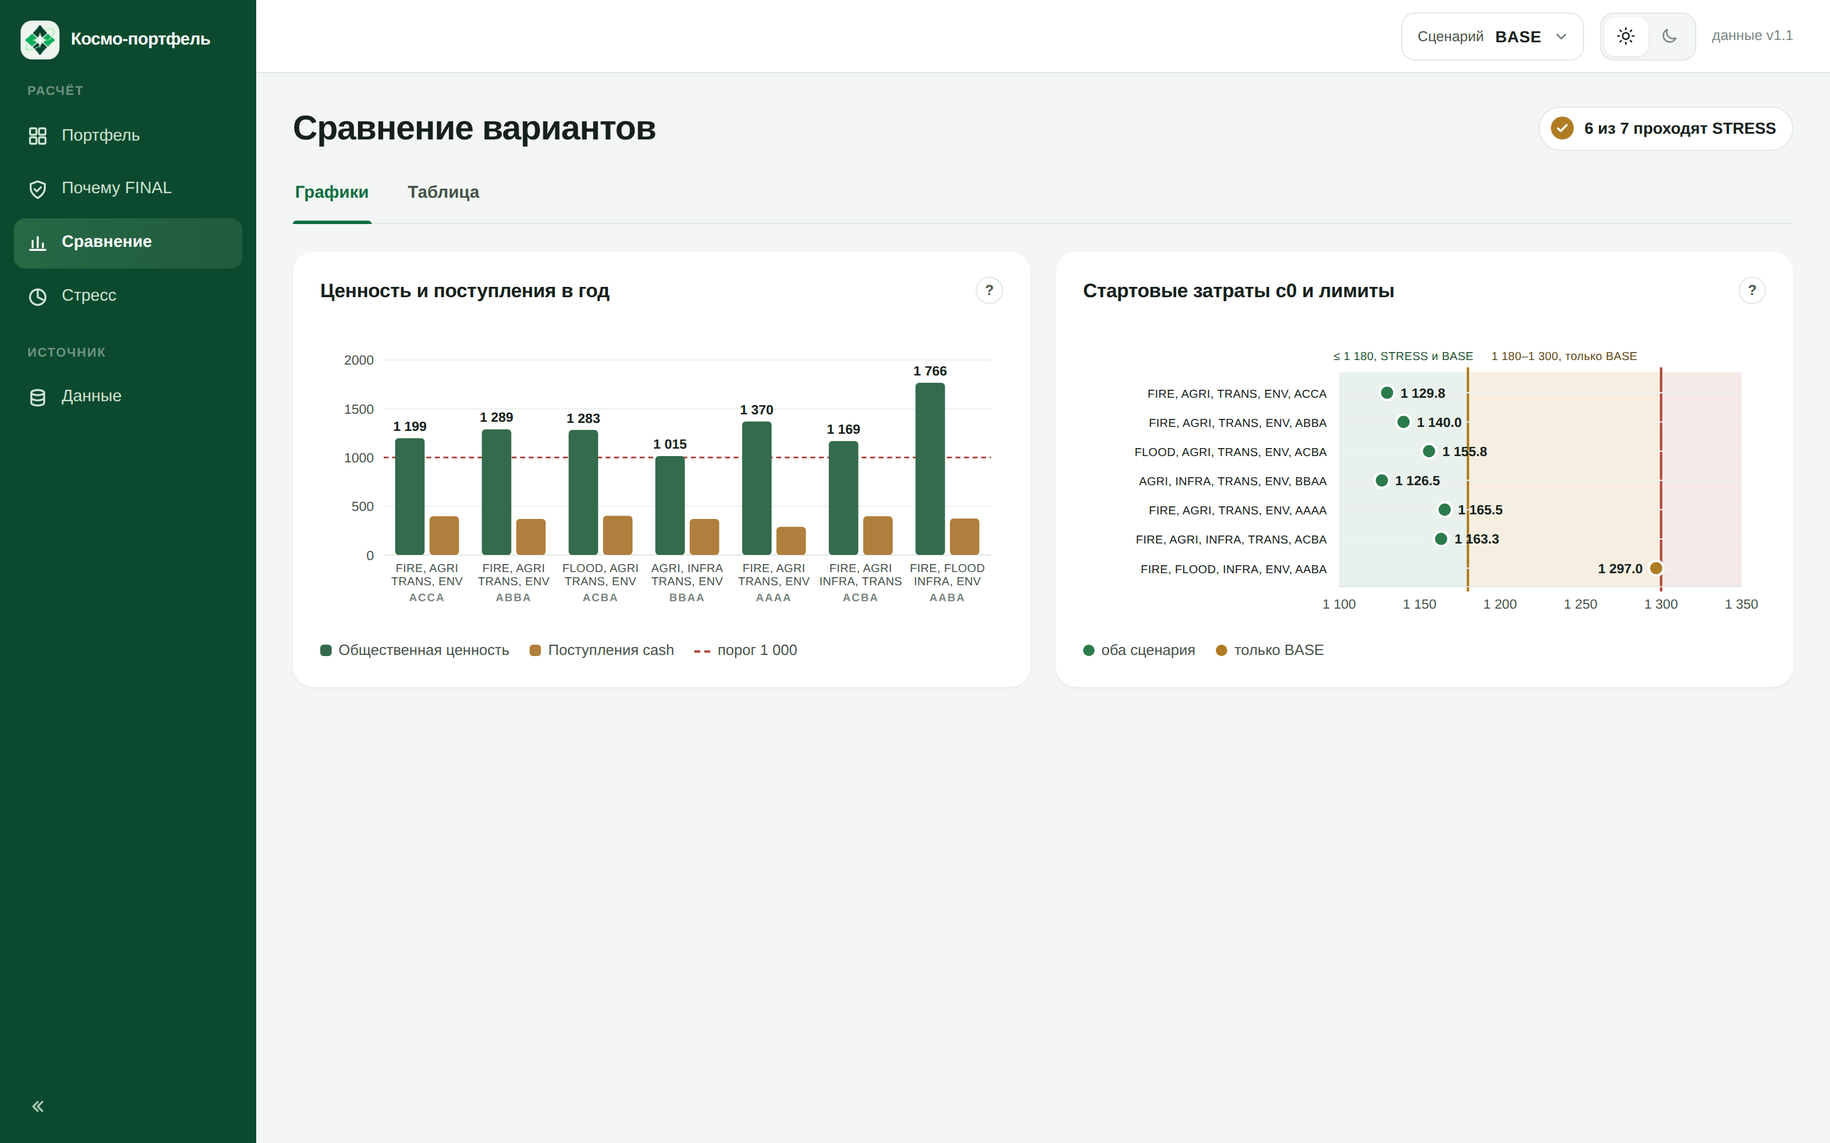
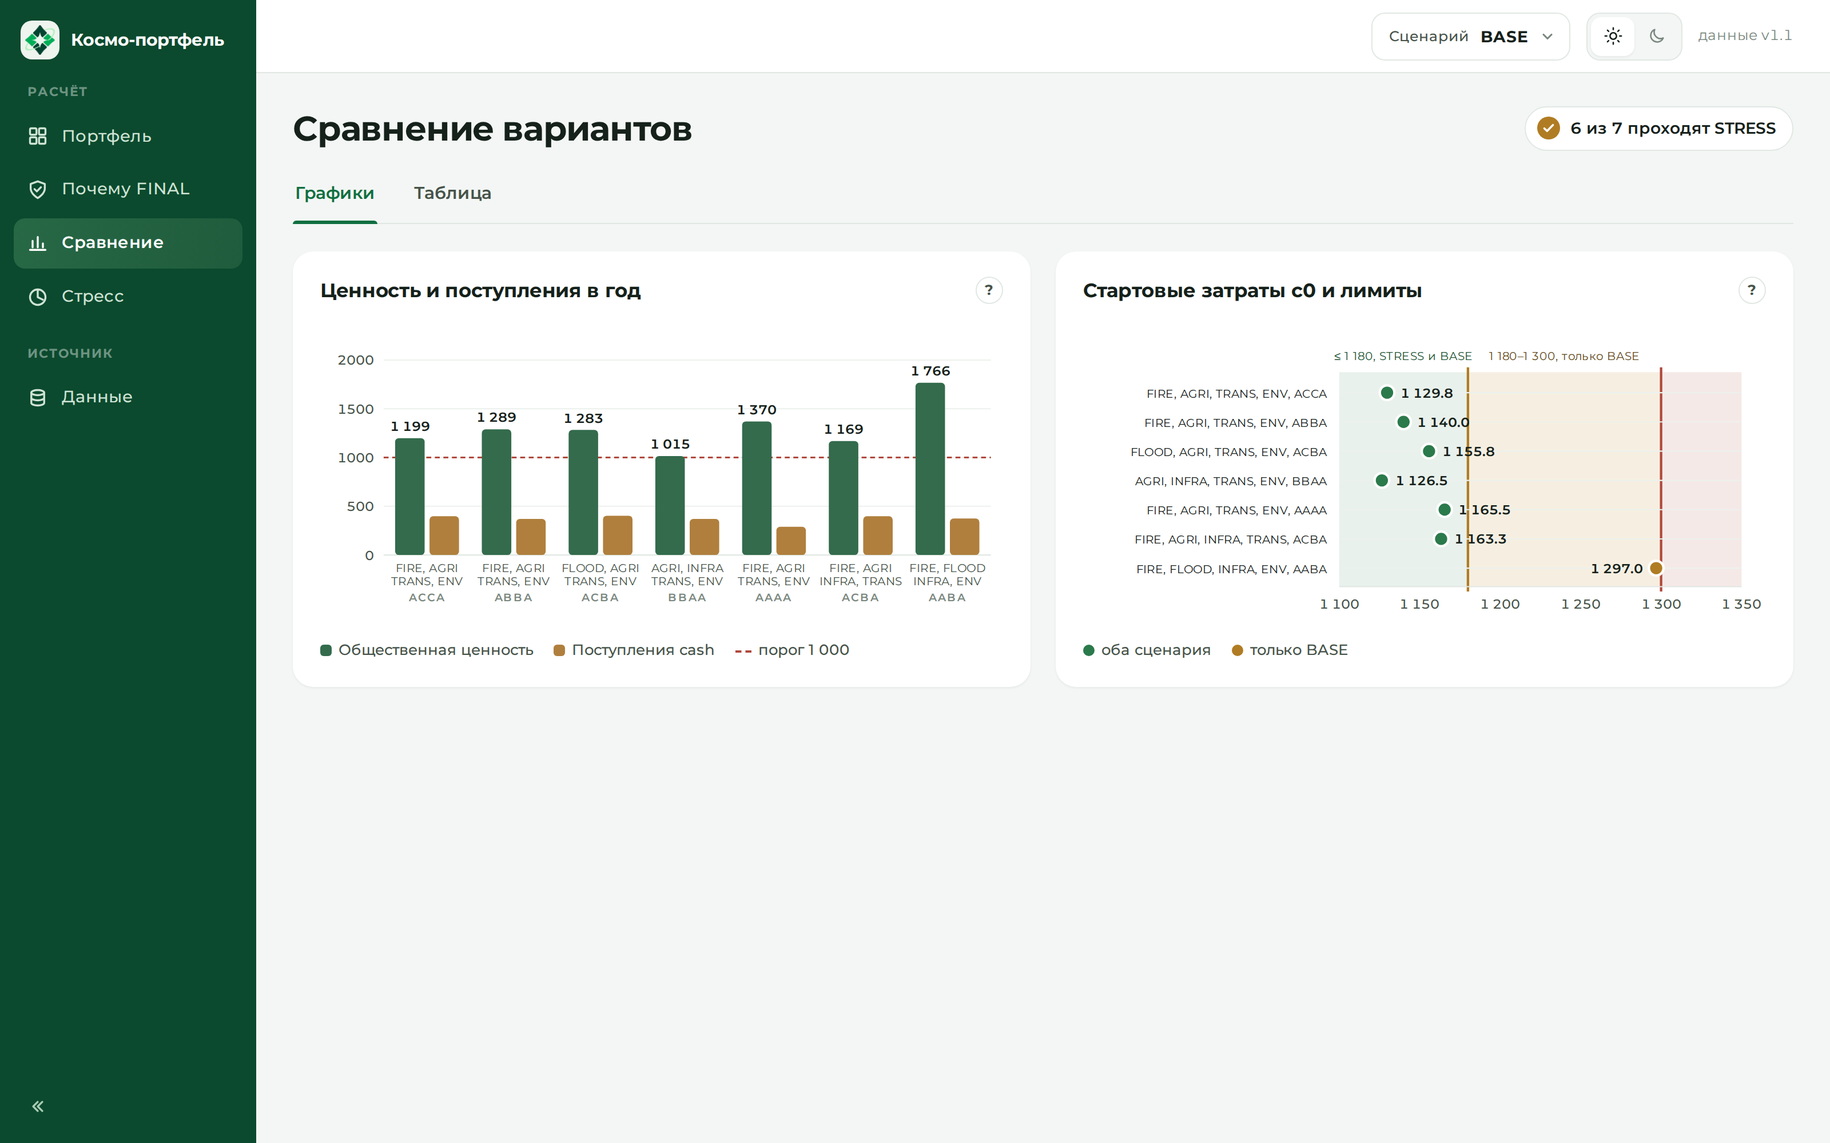
Show replication core and adaptation, the public effect, and the repairs source in the interface
Закрывает пункты участника 5 из аудита и передачи №2 (П1, П8, П9):
- вкладка «Лоты и сервисы»: блок «Тиражирование: ядро и адаптация» — по
  каждому лоту, что переносится в следующий регион без изменений и что
  настраивается на месте; строки — столбцы «Повторно используемая часть»
  и «Местная адаптация» карточек сервисов;
- карточка сервиса: строка «Эффект» (общественный эффект) после KPI, чтобы
  на экране была цепочка «проблема → пользователь → сервис → KPI → эффект»;
- «Стресс → Действия»: в подсказке названы results/repairs_stress.csv и
  repairs_base.csv как источник машинных рекомендаций.

Тексты взяты без изменений из docs/team/participant-2/service_cards_full.csv
в app/config/lots_ui.csv (три новых столбца), контракт и README дополнены,
тест карточек проверяет новые поля. Снимки экранов пересняты с кэшем
Montserrat (FONT_DIR): headless Chromium в песочнице до Google Fonts не
достаёт, поэтому прежние снимки были в системном шрифте.

Claude-Session: https://claude.ai/code/session_01KH6fEFye5MQCjx5tVeXQtT

diff --git a/app/static/app.js b/app/static/app.js
@@ -333,14 +333,24 @@ ${bad.length ? `<ul class="res-f">${bad.map((r) => `<li>${esc(failText(r))}</li>
         const sameMode = !c.mode || c.mode === r.mode;
         const row = (k, v) => (v ? `<dt>${k}</dt><dd>${esc(v)}</dd>` : '');
         const access = sameMode ? row('Базовый доступ', c.access_base) + row('Дополнительно', c.access_extra) : `<dt>Доступ</dt><dd class="muted">описан для режима ${esc(c.mode)}, в комбинации — ${r.mode}</dd>`;
-        return `<div class="sv">${head}<div class="sv-r">${esc(L.region)}${c.user ? ', ' + esc(c.user) : ''}</div>${c.problem ? `<div class="sv-p"><b>Проблема:</b> ${esc(c.problem)}</div>` : ''}<p>${esc(c.description)}</p><dl>${access}${row('KPI', c.kpi)}${c.payer ? `<dt>Плательщик</dt><dd>${esc(c.payer)} <span class="hyp">предположение</span></dd>` : ''}${row('Ключевой риск', c.risk)}${row('При сбое', c.on_failure)}</dl></div>`;
+        return `<div class="sv">${head}<div class="sv-r">${esc(L.region)}${c.user ? ', ' + esc(c.user) : ''}</div>${c.problem ? `<div class="sv-p"><b>Проблема:</b> ${esc(c.problem)}</div>` : ''}<p>${esc(c.description)}</p><dl>${access}${row('KPI', c.kpi)}${row('Эффект', c.effect)}${c.payer ? `<dt>Плательщик</dt><dd>${esc(c.payer)} <span class="hyp">предположение</span></dd>` : ''}${row('Ключевой риск', c.risk)}${row('При сбое', c.on_failure)}</dl></div>`;
       };
-      const helpSvc = `Что получает пользователь каждого лота. Карточки сервисов из <b>app/config/lots_ui.csv</b> — файла участника записки: проблема, короткое описание, основной пользователь, базовый и дополнительный доступ, главный KPI, предполагаемый плательщик, ключевой риск, что показать при сбое. Плательщики — гипотезы по консультации трекера 12.09, не подтверждённые назначения. Название лота берётся отсюда же, поэтому в интерфейсе и записке оно одно. Правила доступа описаны для режима из карточки; если в комбинации режим другой, строки доступа не показываются. Оператор, приёмка и полный текст рисков — в записке.`;
+      const helpSvc = `Что получает пользователь каждого лота. Карточки сервисов из <b>app/config/lots_ui.csv</b> — файла участника записки: проблема, короткое описание, основной пользователь, базовый и дополнительный доступ, главный KPI, общественный эффект (что меняется в решениях пользователя; ущерб отдельно не заявляется), предполагаемый плательщик, ключевой риск, что показать при сбое. Плательщики — гипотезы по консультации трекера 12.09, не подтверждённые назначения. Название лота берётся отсюда же, поэтому в интерфейсе и записке оно одно. Правила доступа описаны для режима из карточки; если в комбинации режим другой, строки доступа не показываются. Оператор, приёмка и полный текст рисков — в записке.`;
+      // тиражирование (П8): что переносится между регионами без изменений и что настраивается на месте —
+      // столбцы «Повторно используемая часть» и «Местная адаптация» тех же карточек
+      const helpRep = `Тиражирование между регионами: для каждого лота — что переносится в следующий регион без изменений (ядро) и что настраивается на месте. Формулировки — из карточек сервисов (<b>app/config/lots_ui.csv</b>, столбцы «Повторно используемая часть» и «Местная адаптация»; полные карточки — <b>docs/team/participant-2/service_cards_full.csv</b>). Общее ядро портфеля и правила адаптации — в карточке решения <b>config/team.json</b> (replicable_core, local_adaptation) и в разделе записки о тиражировании; оператор и приёмка в инструмент не выносятся.`;
+      const repRow = (r) => {
+        const L = d.lots[r.lot], c = L.card;
+        const name = `<td><div class="name"><span class="code">${r.lot}</span>, ${esc(L.name)}</div><div class="sub">${esc(L.region)}</div></td>`;
+        return c && (c.core || c.adaptation) ? `<tr>${name}<td>${esc(c.core || '—')}</td><td>${esc(c.adaptation || '—')}</td></tr>` : `<tr>${name}<td colspan="2" class="muted">Карточка сервиса не подготовлена</td></tr>`;
+      };
+      const rep = `<div class="card"><h2>Тиражирование: ядро и адаптация${help(helpRep)}</h2>
+<div class="tw"><table class="rep"><tr><th>Лот</th><th>Переносится без изменений</th><th>Настраивается в регионе</th></tr>${s.per_lot.map(repRow).join('')}</table></div></div>`;
       return `<div class="card"><h2>Лоты портфеля ${portfolioTag()}${help(helpLots)}</h2>
 <div class="tw wide"><table><tr><th>Лот</th><th>Режим</th><th class="num">c0</th><th class="num">OPEX</th><th class="num">Ценность</th><th class="num">Cash</th><th class="num">t_rep</th><th class="num">Готовность</th><th class="num">Устойчивость</th><th class="num">Тираж</th></tr>
 ${s.per_lot.map(lotRow).join('')}
 <tr class="total"><td>Портфель</td><td></td><td class="num">${fmt(m.c0)}</td><td class="num">${fmt(m.opex, 2)}</td><td class="num">${fmt(m.vpub)}</td><td class="num">${fmt(m.cash, 2)}</td><td class="num">${fmt(m.t_rep, 3)}</td><td class="num">${fmt(m.readiness, 2)}</td><td class="num">${fmt(m.resilience, 2)}</td><td class="num">${fmt(m.scale, 2)}</td></tr></table></div></div>
-<div class="card"><h2>Сервисы портфеля${help(helpSvc)}</h2><div class="svc">${s.per_lot.map(svcCard).join('')}</div></div>`;
+<div class="card"><h2>Сервисы портфеля${help(helpSvc)}</h2><div class="svc">${s.per_lot.map(svcCard).join('')}</div></div>${rep}`;
     },
   };
   return pageHead('Портфель', pill) + body[curTab('portfolio')]();
@@ -572,7 +582,7 @@ function renderStress() {
       const rowD = (label, a, b, dec) => `<tr><td>${label}</td><td class="num">${fmt(a, dec)}</td><td class="num">${fmt(b, dec)}</td><td class="num">${signed(b - a, dec)}</td></tr>`;
       const change = describeChange(fail, s);
       return `<div class="row2 w">
-<div class="card"><h2>Что можно сделать${chips(fail)}${help(`Комбинация ${lotsOf(fail)}, ${modesOf(fail)} не проходит STRESS. Правило кейса: лимит бюджета не меняет исходную стоимость лотов, c0 снижается только сменой режима или состава. Перевод лота из A в B даёт −5 % его c0 и −18 % ценности, но лот перестаёт быть public core. Каждая строка пересчитана через case_core; в столбце STRESS — запас до лимита c0.`)}</h2>
+<div class="card"><h2>Что можно сделать${chips(fail)}${help(`Комбинация ${lotsOf(fail)}, ${modesOf(fail)} не проходит STRESS. Правило кейса: лимит бюджета не меняет исходную стоимость лотов, c0 снижается только сменой режима или состава. Перевод лота из A в B даёт −5 % его c0 и −18 % ценности, но лот перестаёт быть public core. Каждая строка пересчитана через case_core; в столбце STRESS — запас до лимита c0. Это машинные рекомендации движка, а не вывод аналитика: полный список одношаговых замен для портфеля команды — <b>results/repairs_stress.csv</b> (для BASE — <b>repairs_base.csv</b>).`)}</h2>
 <div class="tw"><table><tr><th>Действие</th><th class="num">c0</th><th class="num">Ценность</th><th>STRESS</th></tr>${rowsA}</table></div></div>
 <div class="card"><h2>Замена: ${esc(change)}${help('Что меняется — цена управленческого решения при сокращении бюджета: разница между отвергнутой комбинацией с максимальной ценностью и показанным портфелем. Решение принимает межрегиональный заказчик; договоры по исключённому лоту не заключаются до второго этапа.')}</h2>
 <div class="tw"><table><tr><th></th><th class="num">до</th><th class="num">после</th><th class="num">Δ</th></tr>

diff --git a/app/static/styles.css b/app/static/styles.css
@@ -256,6 +256,9 @@ tr.hl .lot{background:var(--hl-chip)}
 .sv dl{display:grid;grid-template-columns:auto minmax(0,1fr);gap:6px 12px;margin:4px 0 0;font-size:13px;line-height:1.45}
 .sv dt{color:var(--ink-2);font-weight:600;white-space:nowrap}.sv dd{margin:0;color:var(--ink)}
 .sv .muted{color:var(--muted)}
+/* тиражирование: ядро и адаптация по лотам */
+table.rep td{vertical-align:top;line-height:1.45}
+table.rep th:nth-child(2),table.rep th:nth-child(3){width:38%}
 
 /* ---- вкладка «Данные» ---- */
 .slots{display:grid;grid-template-columns:repeat(3,minmax(0,1fr));gap:14px}

diff --git a/app/tests/test_backend.py b/app/tests/test_backend.py
@@ -385,6 +385,8 @@ class Payload2(unittest.TestCase):
         for lid in ("FIRE", "ENV", "AGRI", "TRANS"):
             card = self.d["lots"][lid]["card"]
             self.assertTrue(card["payer"] and card["risk"] and card["problem"], lid)
+            self.assertTrue(card["core"] and card["adaptation"], lid)   # блок «Тиражирование» (П8)
+            self.assertTrue(card["effect"], lid)                          # цепочка «проблема → KPI → эффект» (П1, П9)
 
 
 class EdgeCases(unittest.TestCase):

diff --git a/app/backend/payload.py b/app/backend/payload.py
@@ -30,6 +30,9 @@ UI_COLUMNS = {
     "Проблема": "problem",
     "Предполагаемый плательщик": "payer",
     "Ключевой риск": "risk",
+    "Повторно используемая часть": "core",
+    "Местная адаптация": "adaptation",
+    "Общественный эффект": "effect",
 }
 
 CONSTRAINT_KEYS = {

diff --git a/app/CONTRACT.md b/app/CONTRACT.md
@@ -55,7 +55,10 @@
                 "on_failure": "Время последнего обновления, номер инцидента, ручной канал",
                 "problem": "Большая территория и риск позднего обнаружения пожаров",
                 "payer": "МЧС — предположительно, по консультации трекера 12.09",   // всегда с пометкой «предположительно»
-                "risk": "Задержка или ложный сигнал; зависимость от одного источника" } }
+                "risk": "Задержка или ложный сигнал; зависимость от одного источника",
+                "effect": "Сокращение времени управленческого решения; конечный ущерб зависит от наземного реагирования",
+                "core": "Модель события, API, роли, уведомления, SLA, журнал качества",        // тиражируемое ядро (П8)
+                "adaptation": "Границы лесов, сезонные пороги, каналы диспетчеризации и принимающие службы" } }
   },
   "modes": {                          // коэффициенты access_modes.csv; custom = true у режима из config/custom_mode.json
     "A": { "k_c0": 1.05, "k_opex": 1.05, "k_vpub": 1.0, "k_anchor": 1.0, "k_commercial": 0.25, "public_core": true, "custom": false }
@@ -120,7 +123,9 @@
 - Карточка «Замена» — разница `stress.failing` → `selected`.
 - Блок «Сервисы портфеля» — `lots[*].card` для лотов выбранной комбинации;
   строки доступа показываются, только если `card.mode` совпадает с режимом
-  лота в комбинации.
+  лота в комбинации. Блок «Тиражирование: ядро и адаптация» — `card.core` и
+  `card.adaptation` тех же лотов (П8); лот без карточки получает строку
+  «карточка не подготовлена».
 - Конструктор — id собирается из четырёх лотов и режимов в порядке `lots`
   и запрашивается `GET /api/dashboard?selected=<id>`; без сервера доступны
   только комбинации из собранного файла.
